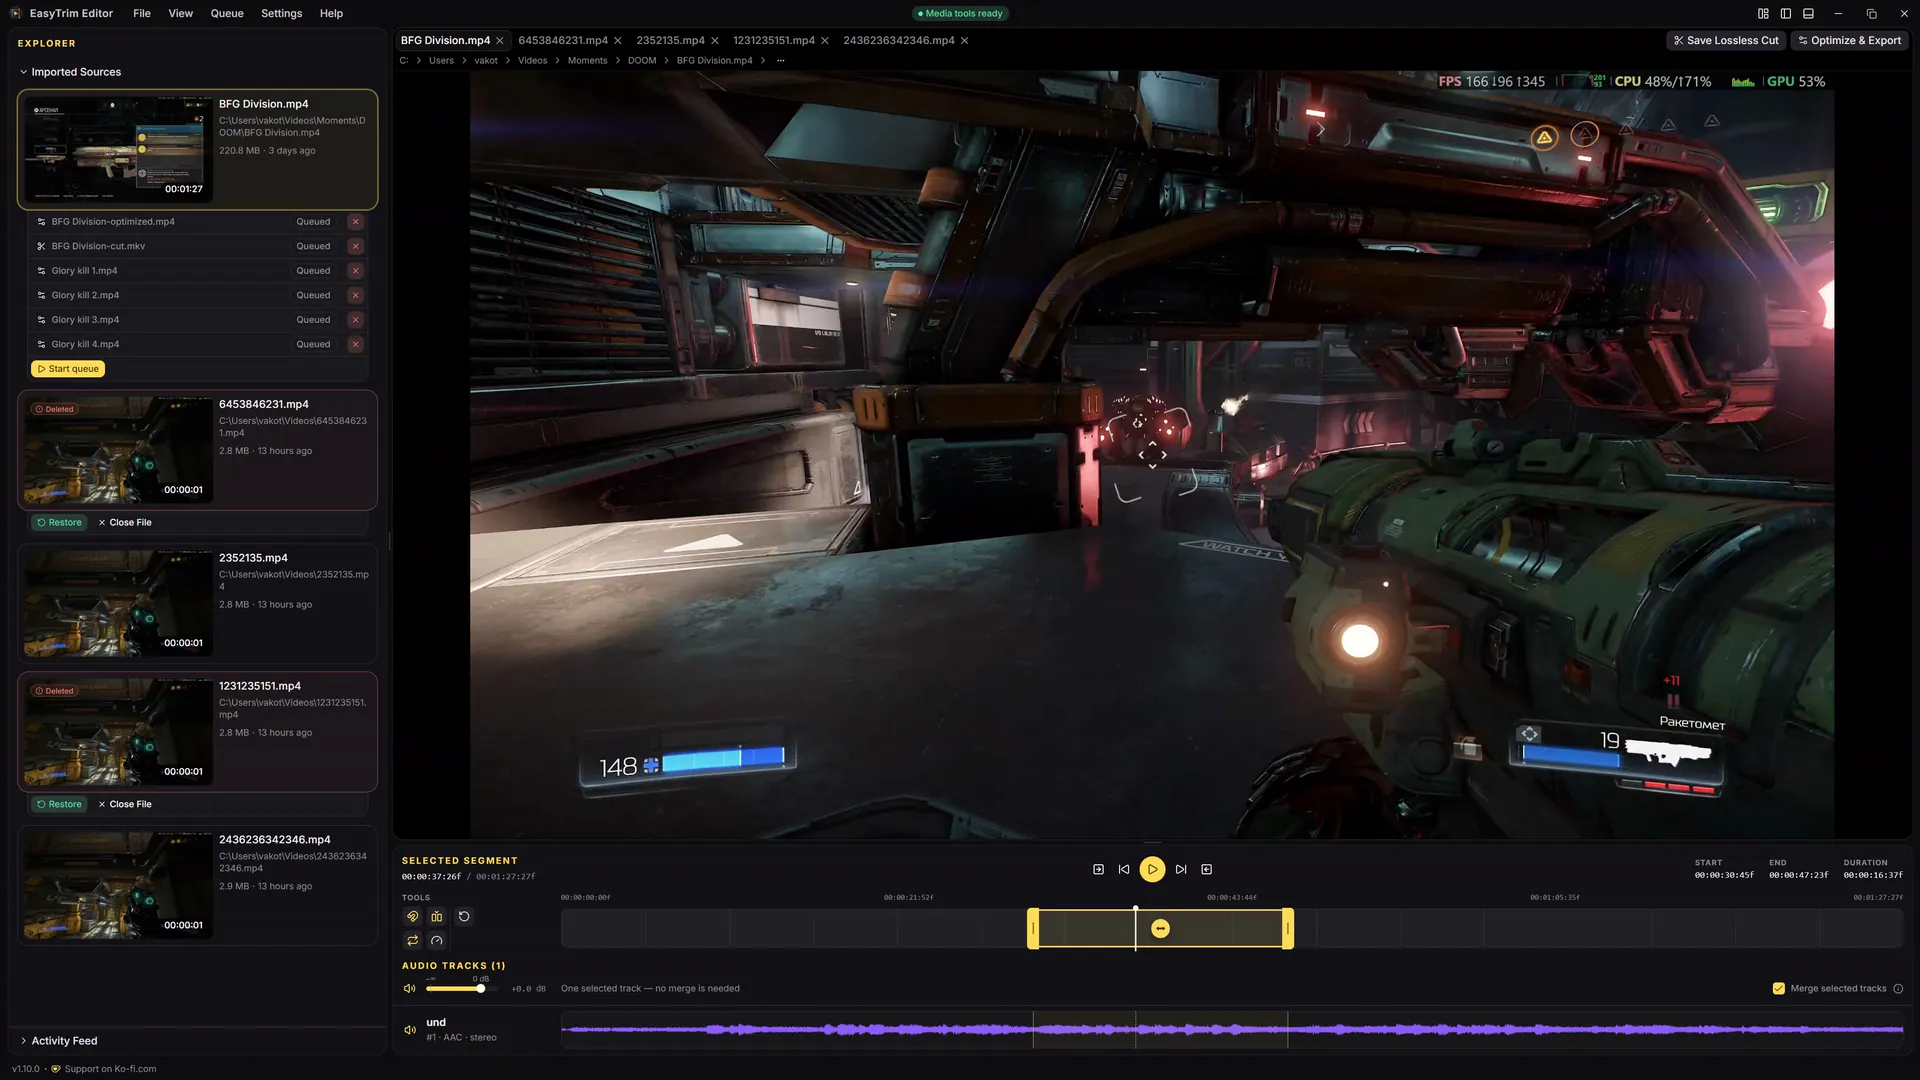
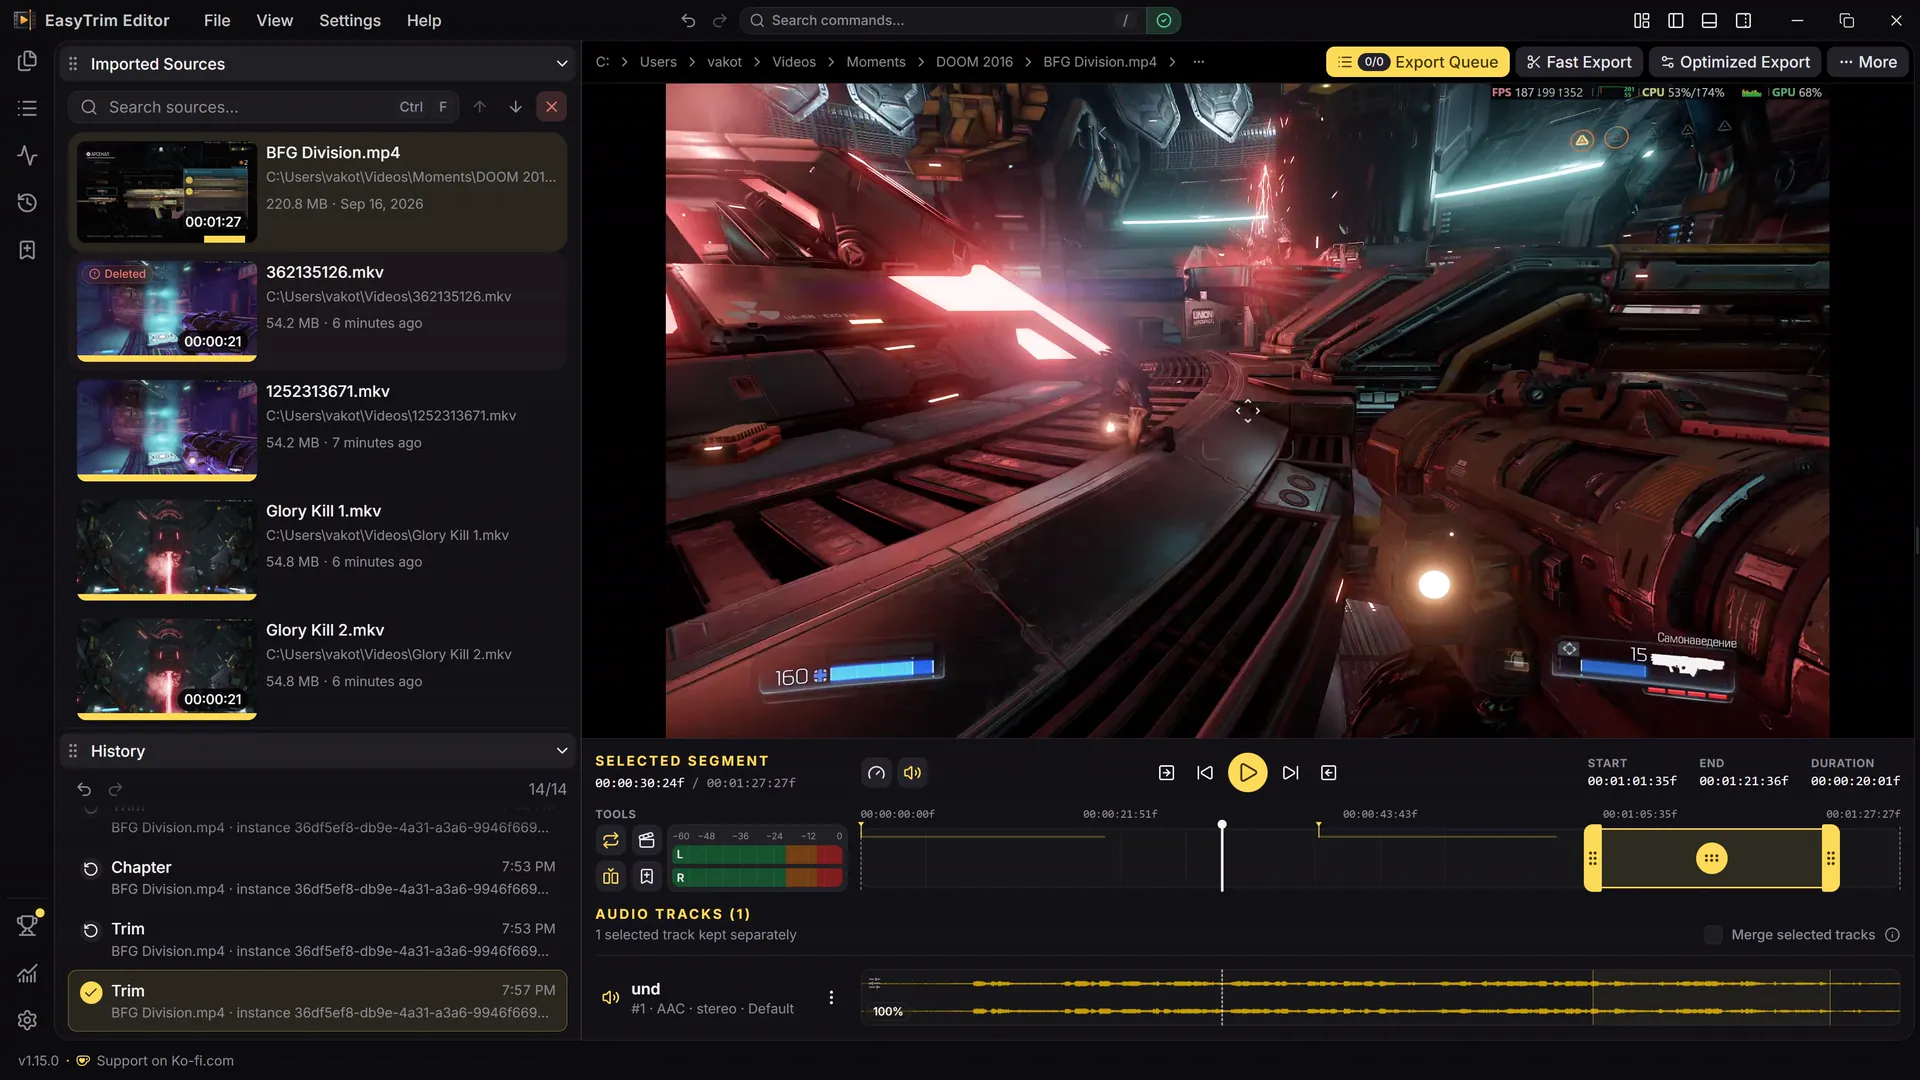
feat(landing): update screenshots for v1.15

diff --git a/apps/landing/src/components/LandingShowcase.tsx b/apps/landing/src/components/LandingShowcase.tsx
@@ -1,13 +1,13 @@
 import { Check } from "lucide-react";
 
-import { queueScreenshot, timelineScreenshot } from "../consts/screenshots.consts";
+import { sourcesScreenshot, timelineScreenshot } from "../consts/screenshots.consts";
 
 import { LandingScreenshot } from "./LandingScreenshot";
 
-const queuePoints = [
-  "Queue a lossless cut and an optimized copy of the same segment",
-  "Remove a job before it runs",
-  "Start the queue when you are ready",
+const sourcePoints = [
+  "Find any source with search",
+  "See each video's thumbnail, duration, and size at a glance",
+  "Files removed from disk are flagged",
 ] as const;
 
 function LandingShowcase() {
@@ -36,21 +36,21 @@ function LandingShowcase() {
           <figcaption className="mt-6 grid gap-2 sm:grid-cols-[1fr_2fr] sm:gap-8">
             <span className="text-lg font-semibold">A timeline made for the cut</span>
             <span className="text-muted-foreground">
-              The selected segment, its timecodes, and every audio track&rsquo;s waveform sit
-              together, so you always know exactly what you are about to export.
+              The selected segment, its timecodes, live audio levels, and every track&rsquo;s
+              waveform sit together, so you always know exactly what you are about to export.
             </span>
           </figcaption>
         </figure>
 
         <div className="mt-20 grid items-center gap-10 lg:grid-cols-2 lg:gap-16">
           <div>
-            <h3 className="text-2xl font-bold tracking-tight">Queue it and keep going</h3>
+            <h3 className="text-2xl font-bold tracking-tight">Every source in one workspace</h3>
             <p className="mt-4 text-muted-foreground">
-              Fast and Optimized exports wait in one queue beside their source and run one at a
-              time, so the editor stays responsive while FFmpeg works.
+              Import several videos and switch between them from one list, then send each clip to
+              Fast Export, Optimized Export, or the Export Queue.
             </p>
             <ul className="mt-6 grid gap-3 text-sm">
-              {queuePoints.map((point) => (
+              {sourcePoints.map((point) => (
                 <li className="flex gap-3" key={point}>
                   <Check aria-hidden="true" className="mt-0.5 size-4 shrink-0 text-primary" />
                   {point}
@@ -60,7 +60,7 @@ function LandingShowcase() {
           </div>
           <LandingScreenshot
             className="mx-auto w-full max-w-lg"
-            screenshot={queueScreenshot}
+            screenshot={sourcesScreenshot}
             sizes="(min-width: 64rem) 32rem, calc(100vw - 2rem)"
           />
         </div>

diff --git a/apps/landing/src/consts/screenshots.consts.ts b/apps/landing/src/consts/screenshots.consts.ts
@@ -1,8 +1,8 @@
 import editor1280 from "../assets/screenshots/editor-1280.webp";
 import editor1920 from "../assets/screenshots/editor-1920.webp";
 import editor2560 from "../assets/screenshots/editor-2560.webp";
-import queue480 from "../assets/screenshots/queue-480.webp";
-import queue748 from "../assets/screenshots/queue-748.webp";
+import sources520 from "../assets/screenshots/sources-520.webp";
+import sources1032 from "../assets/screenshots/sources-1032.webp";
 import timeline960 from "../assets/screenshots/timeline-960.webp";
 import timeline1900 from "../assets/screenshots/timeline-1900.webp";
 
@@ -16,7 +16,7 @@ type Screenshot = {
 };
 
 const editorScreenshot: Screenshot = {
-  alt: "The EasyTrim Editor workspace: imported sources and the export queue on the left, the video preview, and the timeline with a selected segment and its audio waveform below.",
+  alt: "The EasyTrim Editor workspace: imported sources and workspace history on the left, the video preview with the Export Queue, Fast Export, and Optimized Export actions above it, and the timeline with a selected segment and its audio waveform below.",
   height: 1440,
   src: editor1920,
   srcSet: `${editor1280} 1280w, ${editor1920} 1920w, ${editor2560} 2560w`,
@@ -24,20 +24,20 @@ const editorScreenshot: Screenshot = {
 };
 
 const timelineScreenshot: Screenshot = {
-  alt: "The timeline with a selected segment, its timecodes, trimming tools, playback controls, and the audio track's waveform.",
-  height: 414,
+  alt: "The timeline with a selected segment, its start, end, and duration timecodes, playback controls, tools, audio level meters, and the audio track's waveform.",
+  height: 412,
   src: timeline1900,
   srcSet: `${timeline960} 960w, ${timeline1900} 1900w`,
   width: 1900,
 };
 
-const queueScreenshot: Screenshot = {
-  alt: "An imported source with six queued exports, including an optimized MP4 and a lossless MKV cut, and the Start queue button.",
-  height: 700,
-  src: queue748,
-  srcSet: `${queue480} 480w, ${queue748} 748w`,
-  width: 748,
+const sourcesScreenshot: Screenshot = {
+  alt: "The Imported Sources list with a search field and four videos, each with a thumbnail, duration, file size, and date; one is flagged as deleted from disk.",
+  height: 1120,
+  src: sources1032,
+  srcSet: `${sources520} 520w, ${sources1032} 1032w`,
+  width: 1032,
 };
 
 export type { Screenshot };
-export { editorScreenshot, queueScreenshot, timelineScreenshot };
+export { editorScreenshot, sourcesScreenshot, timelineScreenshot };

diff --git a/apps/landing/README.md b/apps/landing/README.md
@@ -62,10 +62,10 @@ Screenshots are WebP files in `src/assets/screenshots`, described in
    SRC=path/to/screenshot.png
    webp() { ffmpeg -y -i "$SRC" -vf "$1" -frames:v 1 -c:v libwebp -quality 80 -compression_level 6 "$2"; }
    for width in 1280 1920 2560; do webp "scale=$width:-2:flags=lanczos" "editor-$width.webp"; done
-   webp "crop=1900:414:787:1697" timeline-1900.webp
-   webp "crop=1900:414:787:1697,scale=960:-2:flags=lanczos" timeline-960.webp
-   webp "crop=748:700:19:58" queue-748.webp
-   webp "crop=748:700:19:58,scale=480:-2:flags=lanczos" queue-480.webp
+   webp "crop=2652:576:1170:1494,scale=1900:-2:flags=lanczos" timeline-1900.webp
+   webp "crop=2652:576:1170:1494,scale=960:-2:flags=lanczos" timeline-960.webp
+   webp "crop=1032:1120:120:86" sources-1032.webp
+   webp "crop=1032:1120:120:86,scale=520:-2:flags=lanczos" sources-520.webp
    ```
 
    Crops are `width:height:x:y` in source pixels; adjust them to the new layout.
